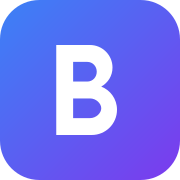
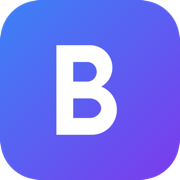
앱 아이콘으로 파비콘 통일

diff --git a/src/app/layout.tsx b/src/app/layout.tsx
@@ -21,6 +21,10 @@ export const metadata: Metadata = {
   description: "머릿속 생각을 빠르게 기록하면, AI가 자동으로 분류하고 체계화합니다.",
   manifest: "/manifest.json",
   icons: {
+    icon: [
+      { url: "/favicon-32x32.png", sizes: "32x32", type: "image/png" },
+      { url: "/favicon-16x16.png", sizes: "16x16", type: "image/png" },
+    ],
     apple: "/apple-touch-icon.png",
   },
 };
